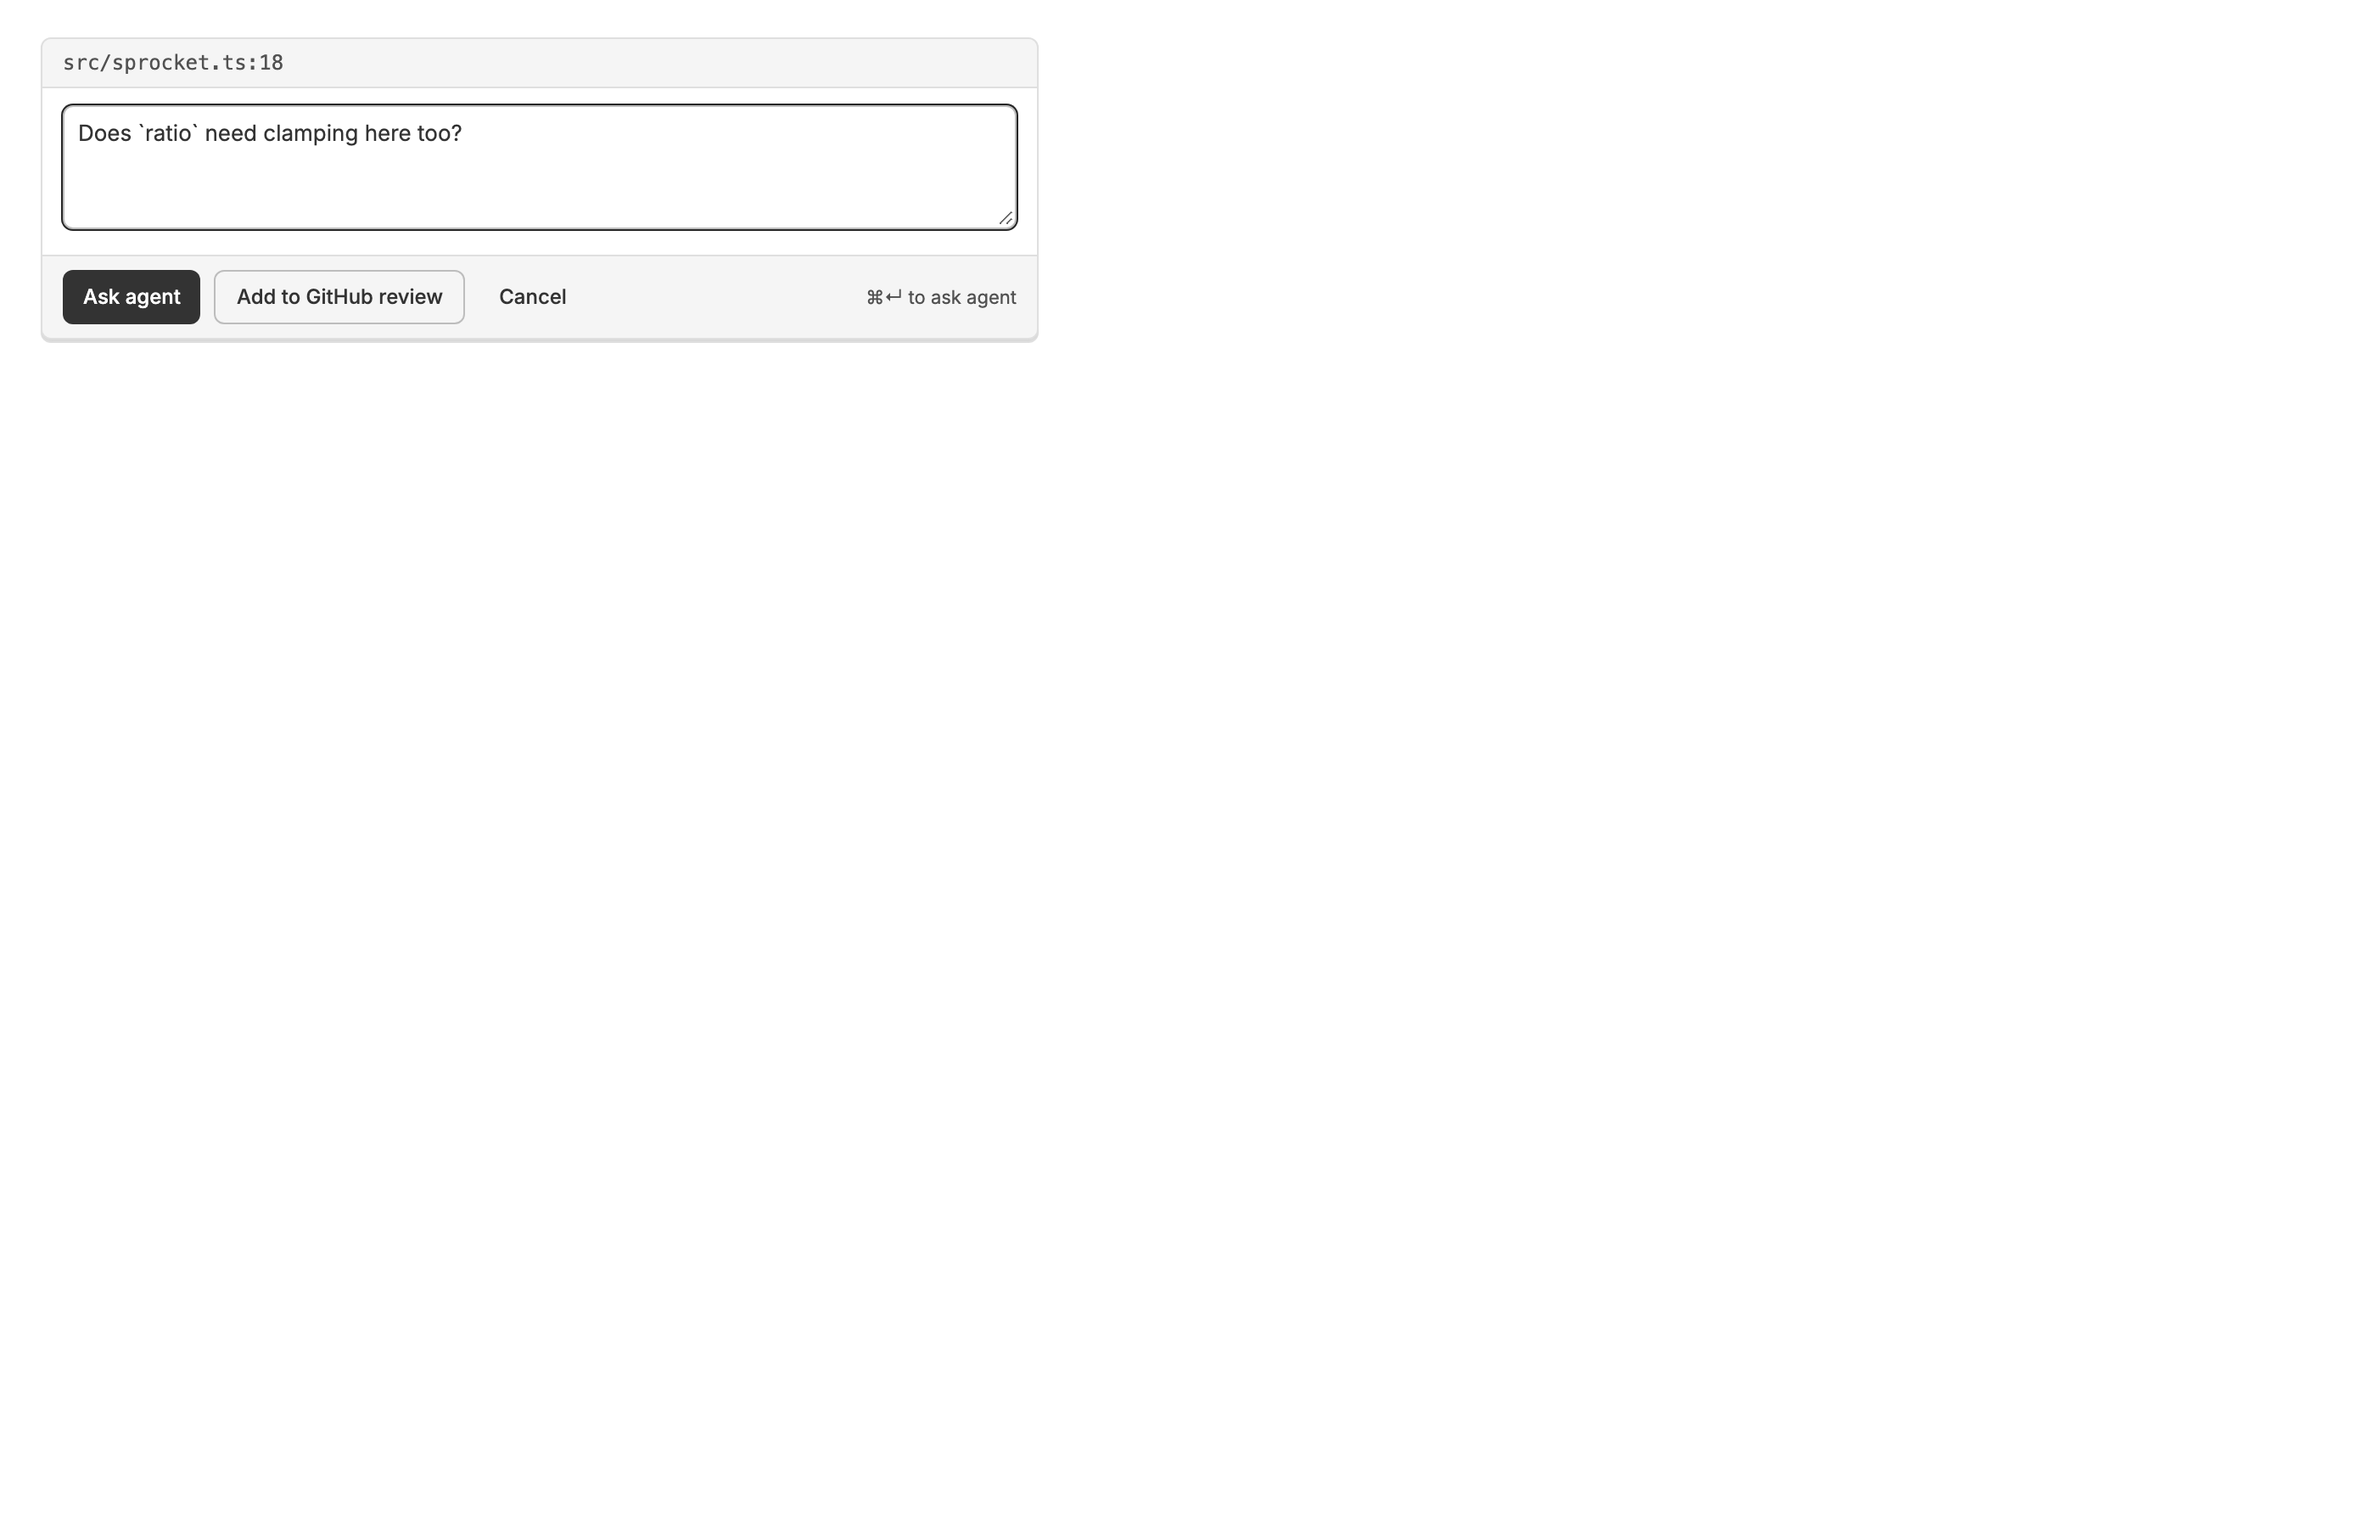
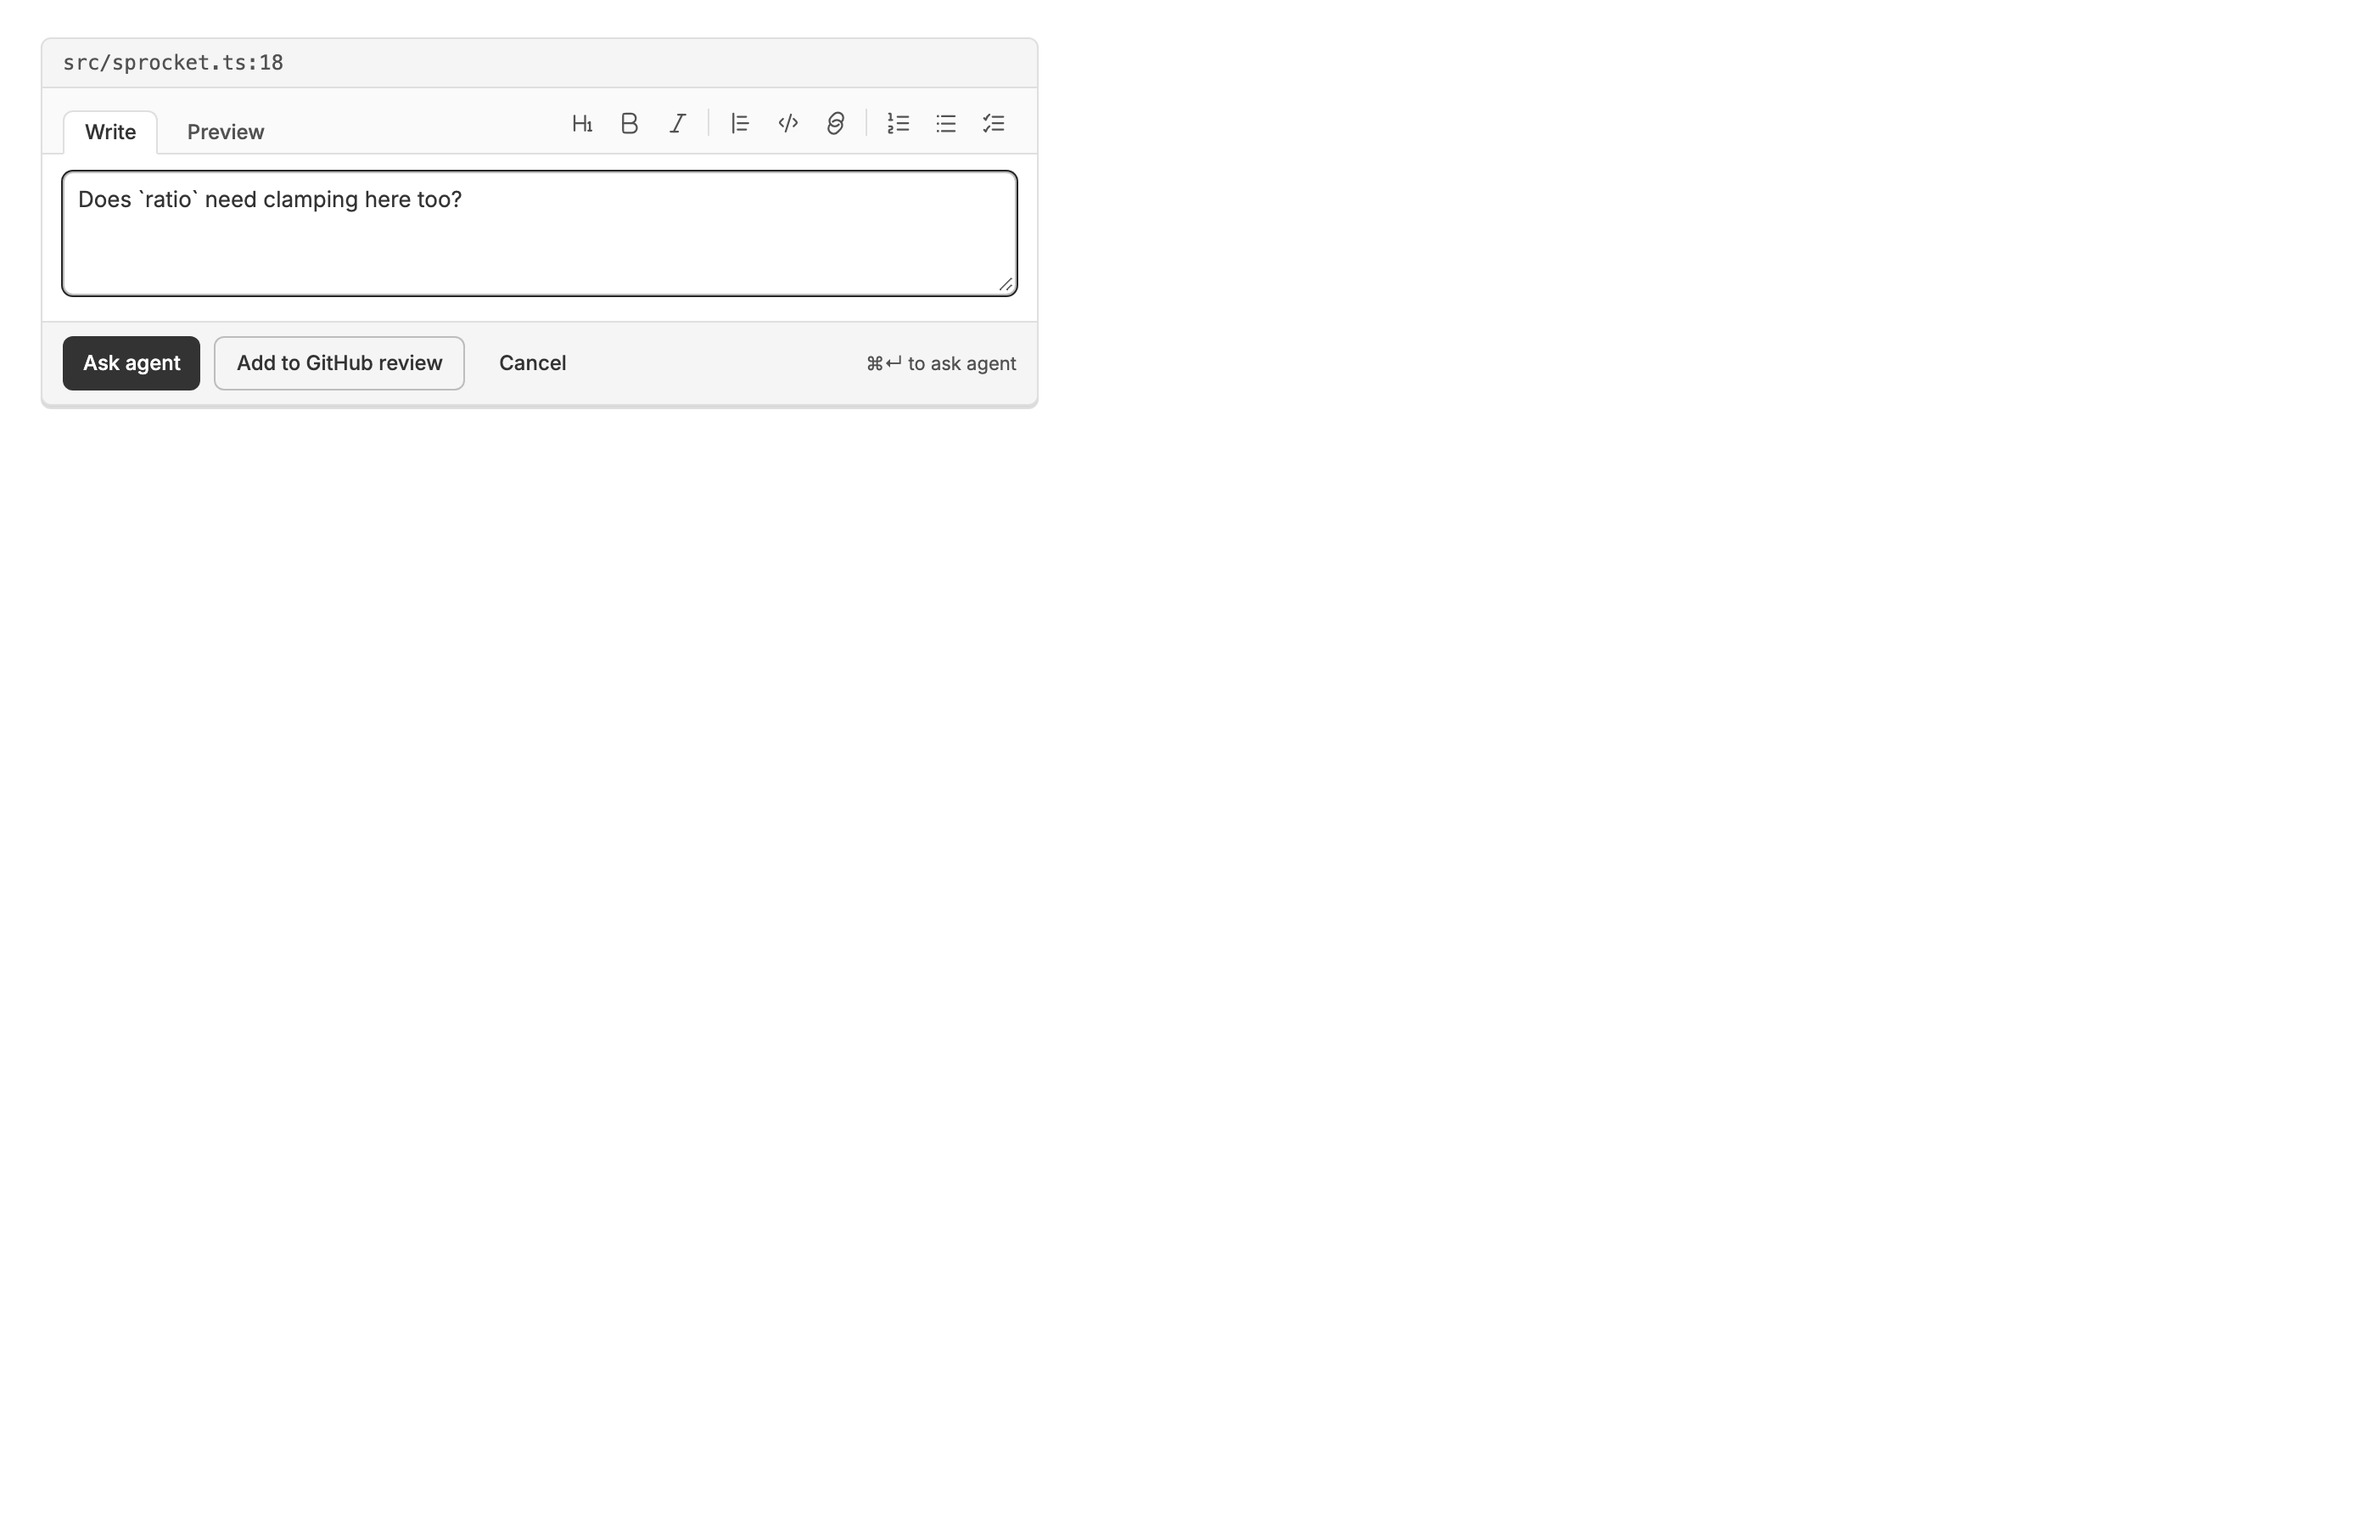
69244af Diff Comment: GitHub's editor toolbar and Add a suggestion in the comment box
danielbachhuber/bb-plugins@69244af4a8e72da0974e70ebe18417153c3ebd08

Changed region(s): [[0.0, 0.0622, 0.435, 0.28]]

diff --git a/README.md b/README.md
@@ -14,7 +14,7 @@ small history while the visual history is still available.
 | [component-library](component-library/README.md) | UI that several plugins draw the same way, starting with the sync status in a page's title bar. | 21 stories |
 | [Contributor Dashboard](contributor-dashboard/README.md) | A dashboard of how people contribute to one GitHub repository, from a local mirror of its pull requests, reviews, issues and releases. | 27 stories |
 | [Dev Bar](dev-bar/README.md) | A status bar under a thread that starts, stops, and restarts its checkout's dev services, and stops them when its last thread is archived. | 8 stories |
-| [Diff Comment](diff-comment/README.md) | Leave review comments on a thread's diff and ask the agent about each one, with the pull request's review comments on the same lines. | 8 stories |
+| [Diff Comment](diff-comment/README.md) | Leave review comments on a thread's diff and ask the agent about each one, with the pull request's review comments on the same lines. | 10 stories |
 | [Diff Viewed Enhanced](diff-viewed/README.md) | Adds a viewed count and GitHub sync to bb's own Viewed checkboxes, so you can see how much of a long diff you've read. | 4 stories |
 | [GitHub Context](gh-context/README.md) | A banner above the composer showing the thread's pull request and its reviewers, the GitHub issues it works on, its changes, and a Harvest timer, in place of bb's own. | 5 stories |
 | [Impromptu UI](impromptu-ui/README.md) | Turns your agent's walls of text into interfaces you can click. | 75 stories |

diff --git a/diff-comment/README.md b/diff-comment/README.md
@@ -16,9 +16,21 @@ An answered comment shows the whole exchange in order, and Reply answers the age
 
 ### Composer in a narrow column
 
-In a narrow column, such as one side of a split diff, the composer's buttons wrap onto a second row instead of running past the card's edge.
+In a narrow column, such as one side of a split diff, the toolbar keeps Add a suggestion, Bold, and Italic, with the rest under More, and the composer's buttons wrap onto a second row instead of running past the card's edge.
 
 ![Composer in a narrow column](comments--composer-in-a-narrow-column.png)
+
+### Suggesting a change
+
+The comment box has GitHub's toolbar. On a line of new code, Add a suggestion starts a suggestion block holding the line, ready to edit.
+
+![Suggesting a change](comments--suggesting-a-change.png)
+
+### Comment with a suggestion
+
+A saved suggestion shows as a change to its line: the line as it is, then the suggested replacement.
+
+![Comment with a suggestion](comments--comment-with-a-suggestion.png)
 
 ## Github review comments
 
